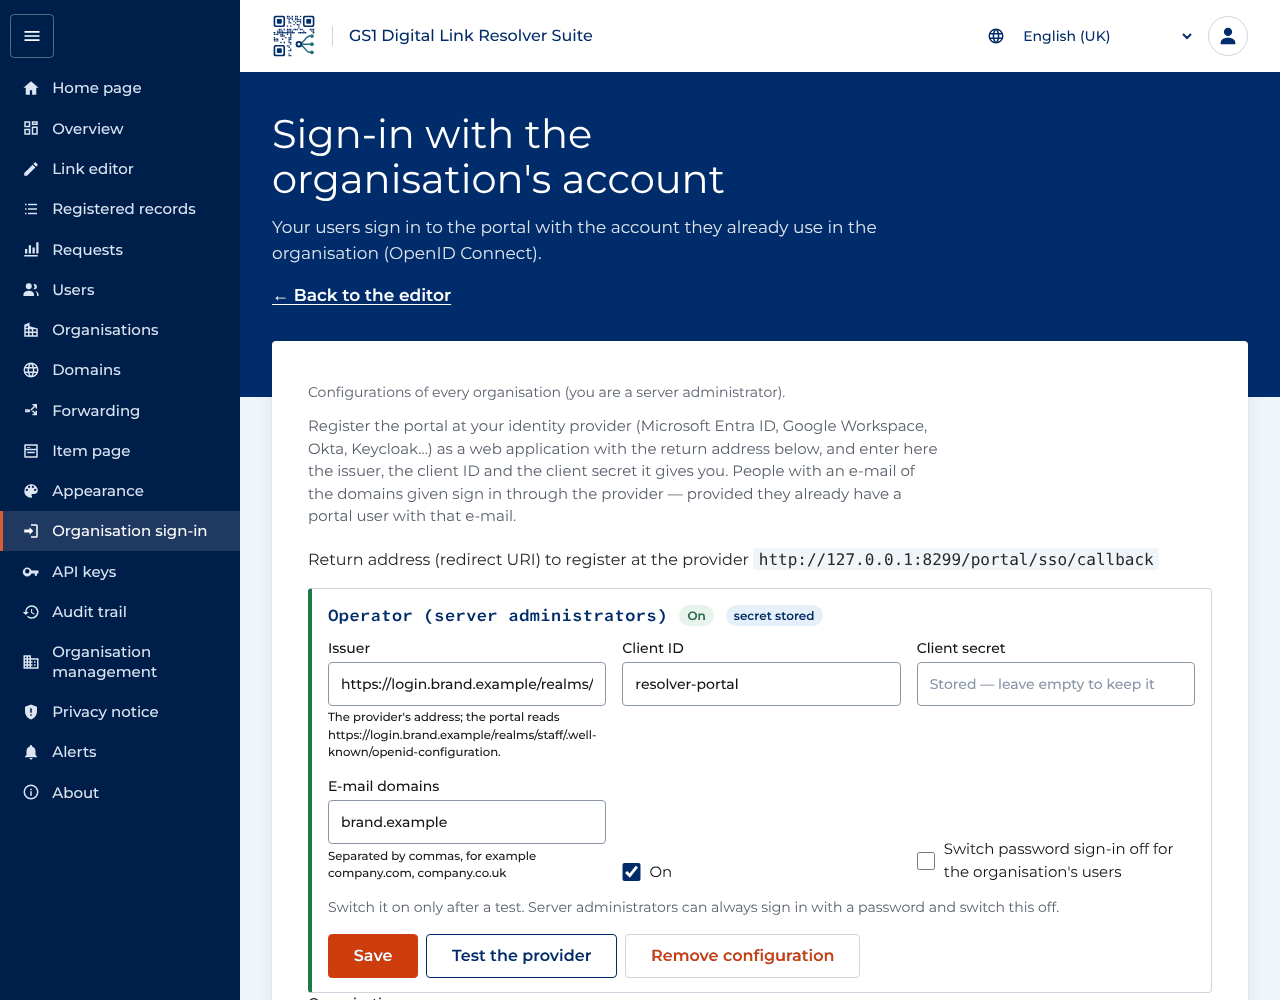
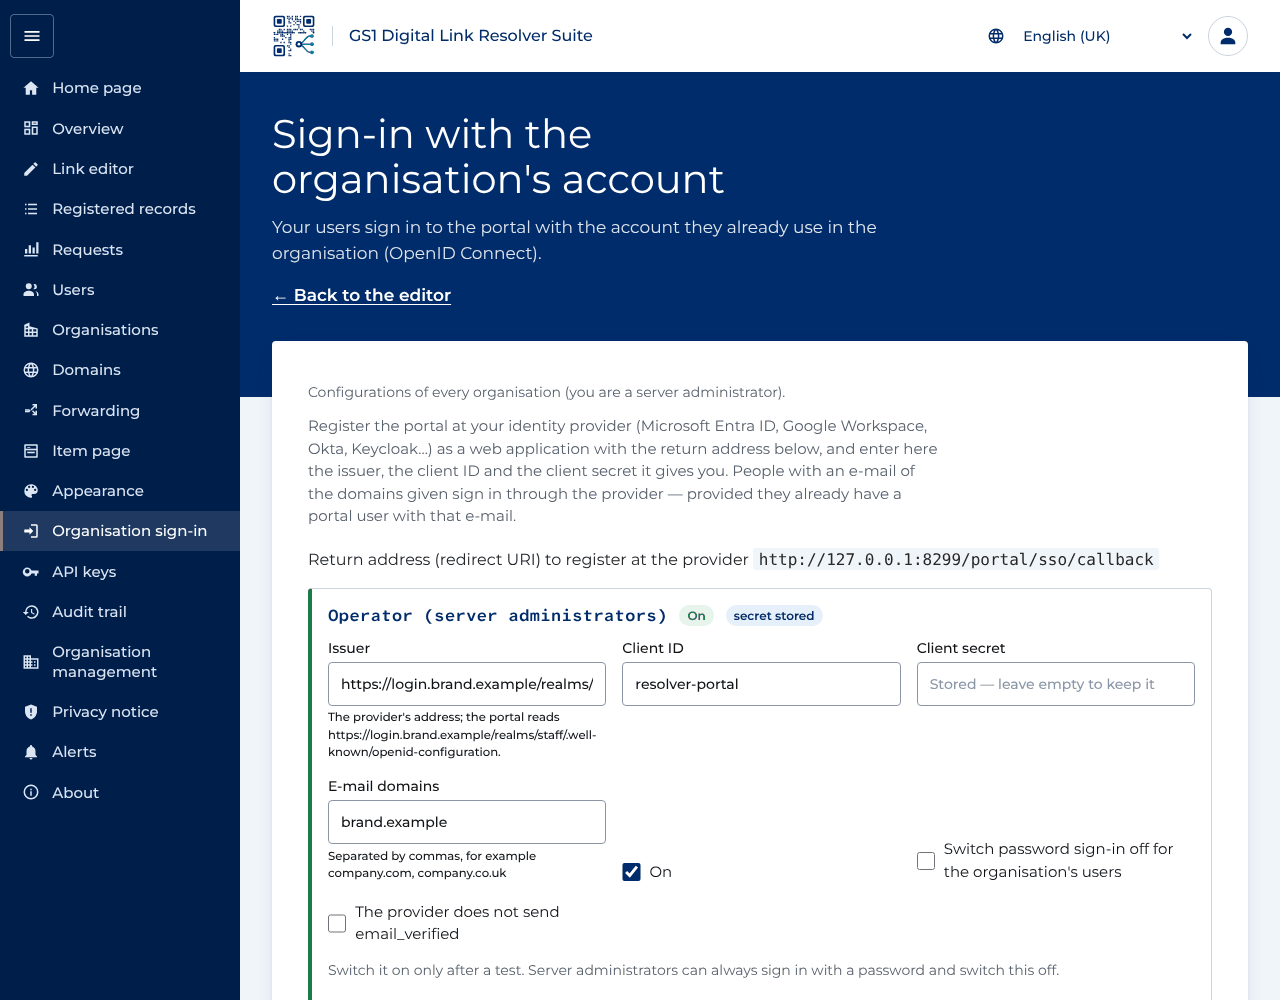
docs: single sign-on domains proved and the provider's subject in the changelog, features, user guide and history
The changelog's session 38 entry (with the operators' action: verify the
domains accepted at the upgrade, tick the email_verified option for Entra
ID), the Single sign-on feature row, the portal guide's Organisation
sign-in steps and the Users screen's Forget organisation account, the
history's session 38, and the guide's screenshot of the screen. Code in
1699d51.

Claude-Session: https://claude.ai/code/session_01AV1ostG84pLrrtBhji9qUu

Changed region(s): [[0.2188, 0.899, 0.9375, 1.0]]

diff --git a/Documentation/portal-user-guide.md b/Documentation/portal-user-guide.md
@@ -94,7 +94,8 @@ below); otherwise ask the administrator for a new temporary password.
 - **Organisation account (single sign-on).** When your organisation has set it up, **Sign in with your
   organisation's account** asks for your work e-mail and takes you to your organisation's sign-in page (Microsoft,
   Google…); you come back signed in. Your portal user must already exist with that e-mail — ask your administrator
-  otherwise. If your organisation has switched password sign-in off, the portal tells you to use this button.
+  otherwise. If the portal says your user is bound to another account at the provider, ask your administrator to
+  forget it. If your organisation has switched password sign-in off, the portal tells you to use this button.
 - **Temporary password.** A new account, or one whose password an administrator has reset, starts with a
   temporary password. After signing in the portal asks you to set your own password before going on.
 - **Show the password.** The eye button inside a password field shows what you typed; it hides again when
@@ -774,6 +775,10 @@ temporary password to be changed*, *Invited — waiting for the password*) and l
 - **Reset password** — the user's password stops working at once and the open sessions end; with e-mail and
   an address, the user receives a link to choose a new one; otherwise a new temporary password is shown once;
 - **Disable** / **Enable** — a disabled user cannot sign in, and keeps the account;
+- **Forget organisation account** — shown for a user marked *bound to the organisation's account* (pointing at it
+  shows the provider and the person's identity there): the portal accepts that user's organisation sign-in only from
+  the provider account first used. When the person's account at your provider is recreated, forget it; the next
+  organisation sign-in binds the account used. Changing the user's e-mail forgets it too;
 - **Remove** — deletes the account; the user's changes stay in the history and audit trail.
 
 Each user may have an **E-mail** address (optional, unique), where invitations, recovery links and security
@@ -796,11 +801,19 @@ your organisation (Microsoft Entra ID, Google Workspace, Okta, Keycloak — any 
 1. At your provider, register the portal as a web application with the **return address** the screen shows.
 2. Here, enter the provider's **Issuer**, the **Client ID** and the **Client secret** it gave you, and your
    organisation's **E-mail domains** (for example `company.com`). Tick **On** and select **Save**; then **Test the
-   provider**. The secret is never shown again: leave the field empty to keep it.
-3. Each user signs in with **Sign in with your organisation's account** and their work e-mail. Only people who already
-   have a portal user with that e-mail get in, with the role and prefixes you gave them.
-4. Once it works, you may tick **Switch password sign-in off for the organisation's users**. A server administrator can
-   always sign in with a password and switch it back on, for example if your provider is down.
+   provider**. The secret is never shown again: leave the field empty to keep it. Tick **The provider does not send
+   email_verified** only if your provider never sends it (Microsoft Entra ID, by default).
+3. **Prove each domain.** Under the form each domain shows its state. *Waiting for proof*: publish the TXT record shown
+   (name `_gs1resolver.<domain>`, value `gs1resolver-sso=…`) in the domain's DNS and select **Verify**; or ask a server
+   administrator, who can **Approve without DNS**. Until a domain is proved, nobody with an address there signs in
+   through the provider. A domain shown as *accepted at the upgrade, without proof* was set up before this check
+   existed: verify it too.
+4. Each user signs in with **Sign in with your organisation's account** and their work e-mail. Only people who already
+   have a portal user with that e-mail get in, with the role and prefixes you gave them. The first sign-in ties the
+   portal user to the person's account at the provider; see *Forget organisation account* under [Users](#users).
+5. Once it works, you may tick **Switch password sign-in off for the organisation's users**. A server administrator can
+   always sign in with a password and switch it back on, for example if your provider is down. It applies only to
+   users whose e-mail domain is proved.
 
 The card shows the last sign-in and the last failure (with its reason). A server administrator sees every
 organisation's configuration and sets up the operator's own; during support access the screen is read only.

diff --git a/Documentation/extensions/CHANGELOG.md b/Documentation/extensions/CHANGELOG.md
@@ -5,7 +5,27 @@
 Change of behaviour an integrator may notice: the official data entry API (`/api`, `/swaggerui`) is closed to every
 address that `DATA_ENTRY_API_ALLOW` does not list; organisations' systems use the tenant API.
 
-### No sign-in lock by user name (session 37)
+### Single sign-on: domains proved, verified e-mail, the provider's subject (session 38)
+- **Changed: an e-mail domain of a single sign-on configuration signs people in only once proved**
+  ([ADR 0025](../adr/0025-sso-domain-proof-and-subject.md)). Typing a domain used to claim it: any organisation's
+  administrator could list another organisation's domain, or a public mailbox domain, and so keep the rightful
+  organisation from using it and send people who typed such an address to their own provider. Now each listed domain
+  waits for a DNS TXT record at `_gs1resolver.<domain>` holding `gs1resolver-sso=<token>` (shown on the screen;
+  **Verify**), or for a server administrator's **Approve without DNS** (refused when accounts of another organisation
+  use the domain). A domain is proved in one configuration at most; a domain only listed elsewhere blocks nobody.
+  Password sign-in off applies only to users whose domain is proved. **Operators: configurations saved before this
+  version keep working — their domains are recorded as *accepted at the upgrade, without proof* — and should be
+  verified or corrected on the *Organisation sign-in* screen**; the portal's log says so at start.
+- **Changed: the provider must say the e-mail is verified** (`email_verified: true`); only an explicit `false` was
+  refused before. A configuration can say its provider never sends the claim (**The provider does not send
+  email_verified**; Microsoft Entra ID by default): **configurations using Entra ID must tick it**, or their users are
+  refused.
+- **Added: the account is bound to the provider's identity** at its first sign-in through the provider (issuer and
+  subject); a later sign-in presenting the same e-mail with another identity is refused, as is an identity already
+  bound to another account. The *Users* screen shows the binding and **Forget organisation account**, for a person
+  whose account at the provider was recreated; a new e-mail address forgets it too. The journal records the subject
+  of each sign-in, each domain proved or approved, and each binding forgotten. Twelve languages. Commit `1699d51`.
+
 - **Changed: wrong passwords no longer lock an account.** Five wrong passwords for a user name, typed by anyone from
   anywhere, locked it for 15 minutes even for its owner, so anyone who knew a user name could keep an editor or an
   administrator out, repeatedly. Wrong passwords now delay that user name **from the address they came from** only:

diff --git a/Documentation/features.md b/Documentation/features.md
@@ -230,7 +230,7 @@ How to use the portal: [portal user guide](portal-user-guide.md). How each featu
 | E-mail per user | Optional, unique; where invitations, recovery links and notices go | `1590b7e`, `675b6ca`, `03c924b` | `tenants`: e-mail |
 | API keys | Administrators create keys for their organisation's systems (the operator's records for a server administrator): scopes, optional prefixes, validity; shown once, stored as a hash, revocable; last use; e-mail when created and before expiry ([ADR 0005](adr/0005-tenant-api.md)) | `bb0b496`, `c469f29` | `api`: key · `api_e2e` |
 | Journal | One event per document in the portal's database, included in the backup; kept by age per category (sign-ins 180 days, record changes and administration for ever by default; `PORTAL_JOURNAL_*_DAYS`) | `71b15f2`, `d783f3d` | `store`: journal |
-| Single sign-on | Each organisation's OpenID Connect provider (Entra ID, Google, Okta, Keycloak…) for its users' sign-in, chosen by the e-mail's domain; accounts matched by e-mail, never created; password sign-in off per organisation, never for server administrators ([ADR 0012](adr/0012-single-sign-on.md)) | `732b5c0` | `sso` · `sso_e2e` |
+| Single sign-on | Each organisation's OpenID Connect provider (Entra ID, Google, Okta, Keycloak…) for its users' sign-in, chosen by the e-mail's domain once proved by a DNS record or a server administrator's approval, one configuration per domain; accounts matched by a verified e-mail, bound to the provider's subject at the first sign-in and forgotten by an administrator, never created; password sign-in off per organisation for proved domains, never for server administrators ([ADR 0012](adr/0012-single-sign-on.md), [ADR 0025](adr/0025-sso-domain-proof-and-subject.md)) | `732b5c0`, 1699d51 | `sso` · `sso_e2e` |
 | Export limits per role | The most rows one export of a role may hold, or none; refusals journalled, buttons hidden | `732b5c0` | `exports`: a reader (limit 0) may not export |
 | GS1's GCP length table | Uploaded by server administrators (checked, swapped in at once, older lists confirmed); the GS1 Company Prefix of a key under it in the editor, the EPC's partition, warnings on organisations' prefixes ([ADR 0015](adr/0015-gcp-length-table.md)) | `5dd6bfe` | `gcp` · `gcp_e2e` |
 | Export limits in the portal | An installation maximum set by server administrators; each organisation's limits for readers, editors and API keys on its page (*Exports*), within it; the tenant API's listing truncated at the keys' limit; `PORTAL_EXPORT_LIMITS` read once ([ADR 0012](adr/0012-single-sign-on.md) §8) | `f0c1d4f` | `exports`: maximum · `admin_nav_e2e`: export |

diff --git a/Documentation/history.md b/Documentation/history.md
@@ -1259,6 +1259,17 @@ security message at five failures says the account is not locked (`sign-in-failu
 message code `auth.wait` gives the wait in seconds. 18 new checks in `store`, `session` and `mail`; 8 mutations, all
 caught.
 
+## Session 38 — single sign-on: domains proved, the provider's subject
+
+The sixth and seventh findings of the security assessment's phase 1, in one record
+([ADR 0025](adr/0025-sso-domain-proof-and-subject.md)) and one code commit (`1699d51`): an e-mail domain of a single
+sign-on configuration signs people in only once proved by a DNS TXT record (`gs1resolver-sso=<token>` at
+`_gs1resolver.<domain>`) or a server administrator's approval, and in one configuration at most; the provider must say
+the e-mail is verified, unless the configuration says it never does; the account is bound to the provider's issuer and
+subject at its first sign-in, and an administrator forgets the binding on the *Users* screen. Configurations saved
+earlier keep their domains, marked as accepted at the upgrade. 33 new checks in `sso` and `sso_e2e`; 15 mutations, all
+caught after one check was added. The session also added F-005's staging steps to the test plan of sessions 32 to 37.
+
 | Area | 1.0.0 (session 1) | Now |
 |---|---|---|
 | Identification | GTIN + optional batch | 16 primary keys and 9 qualifiers, with the combinations of the standard |
